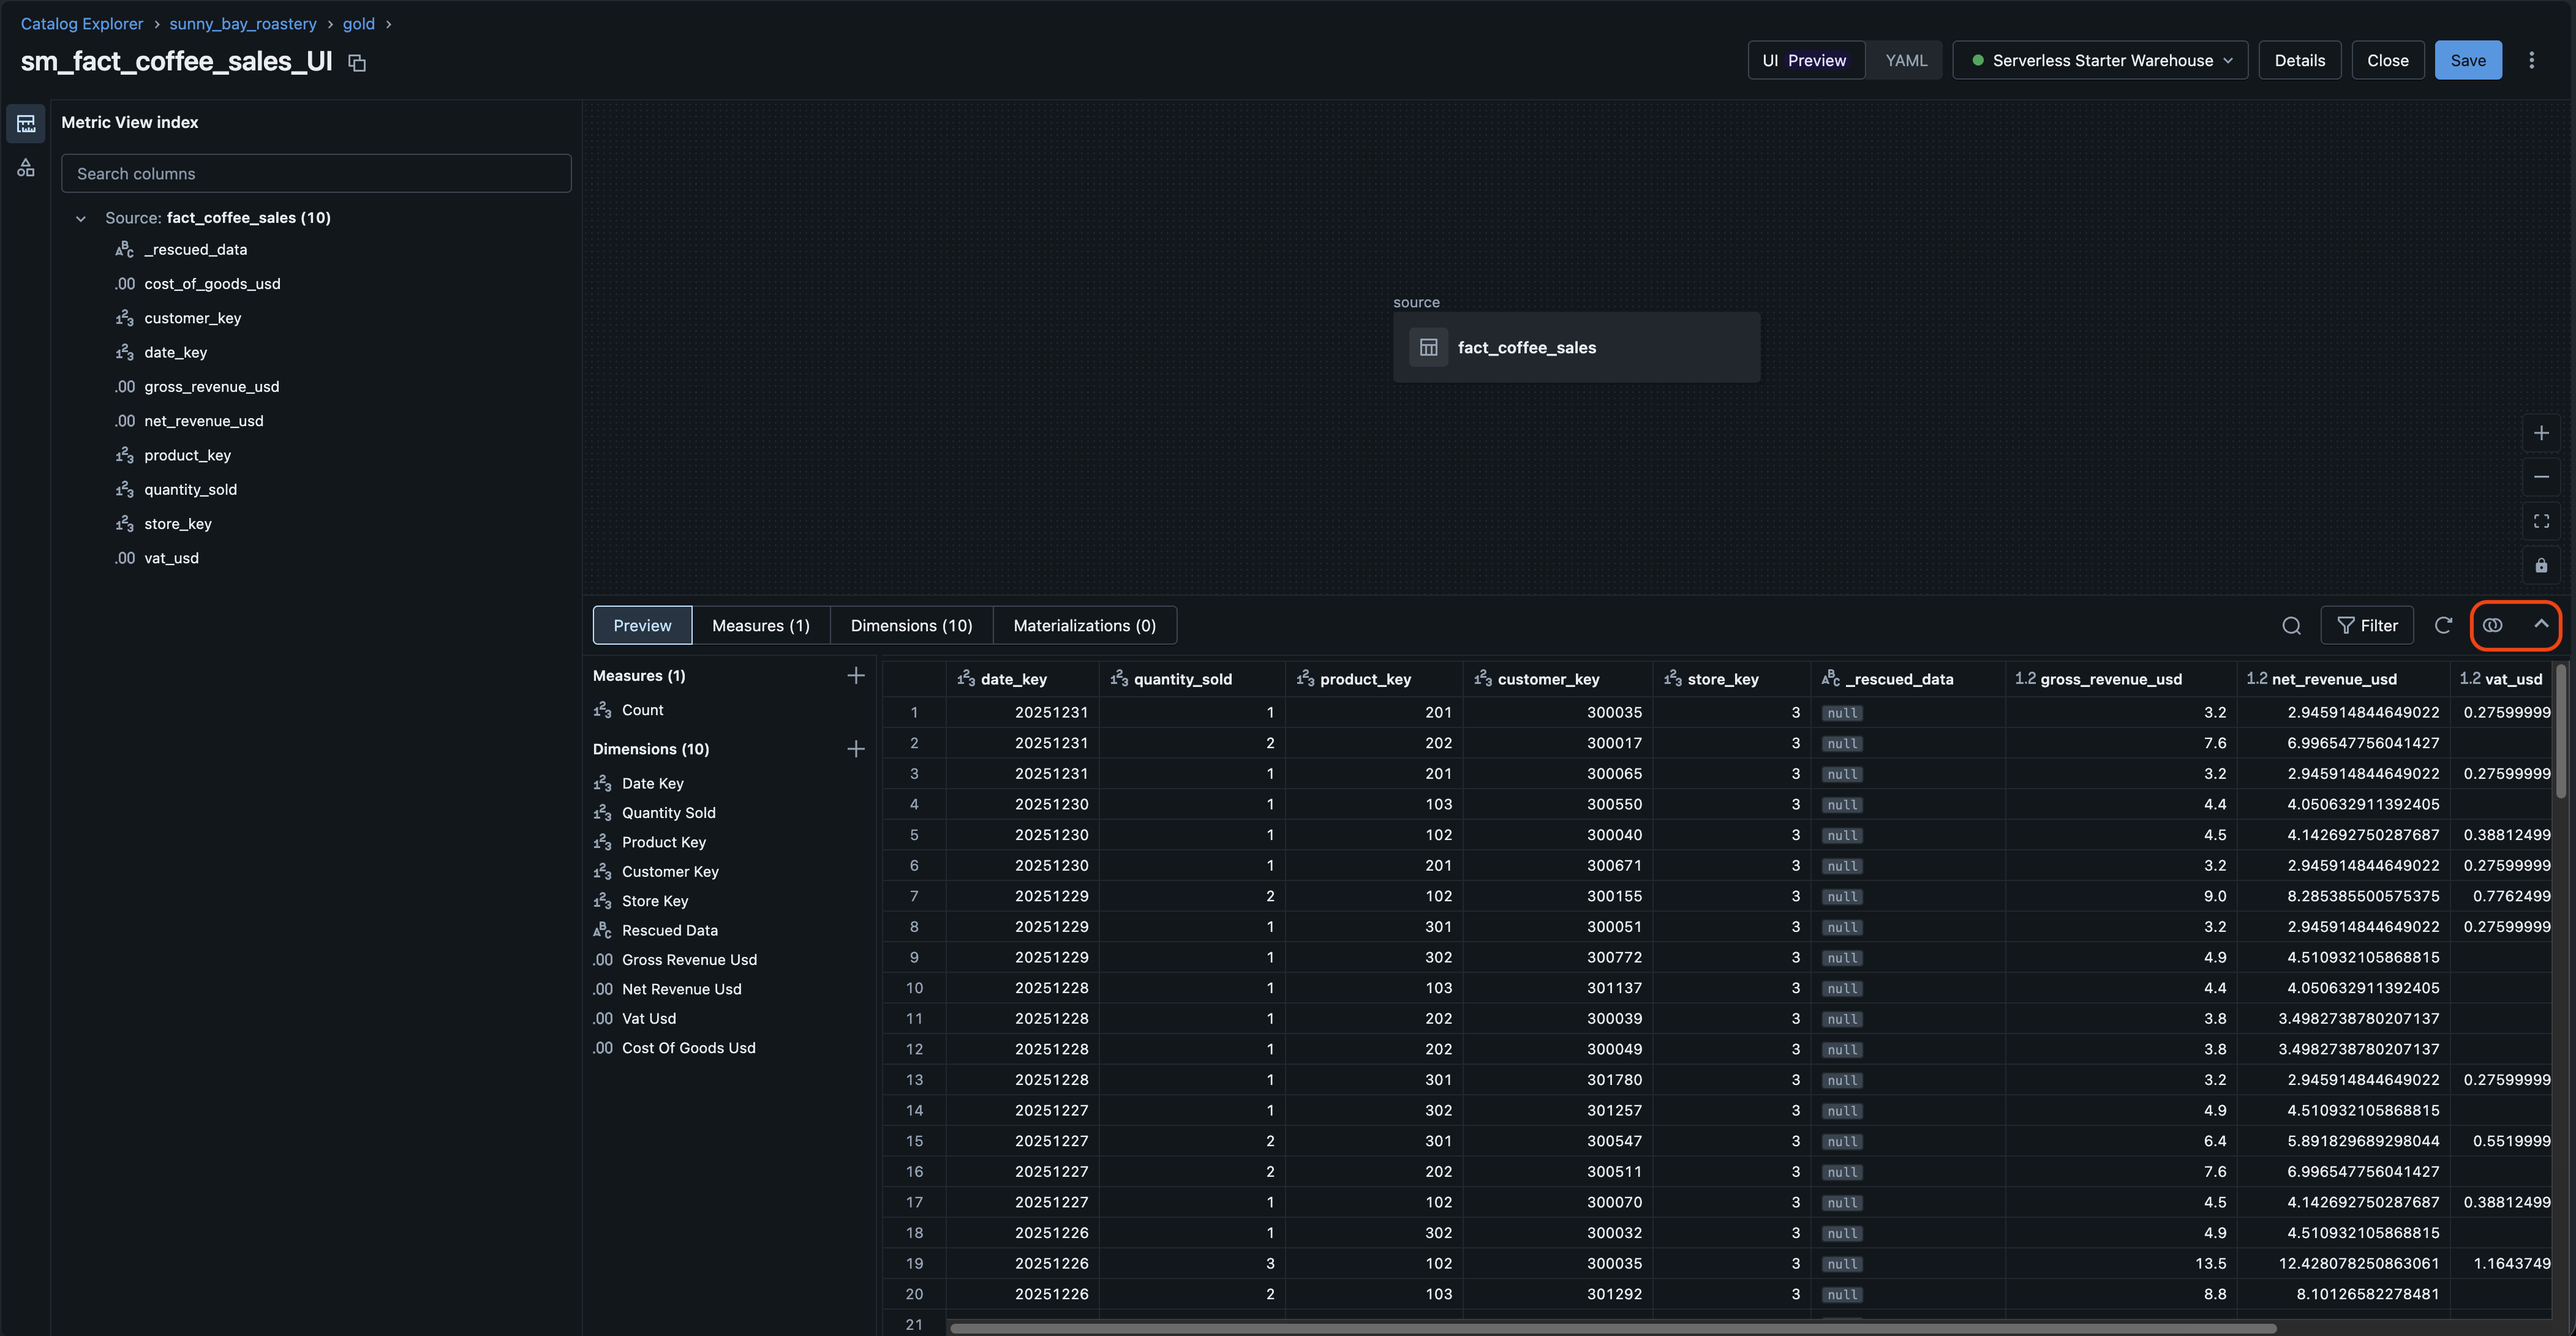
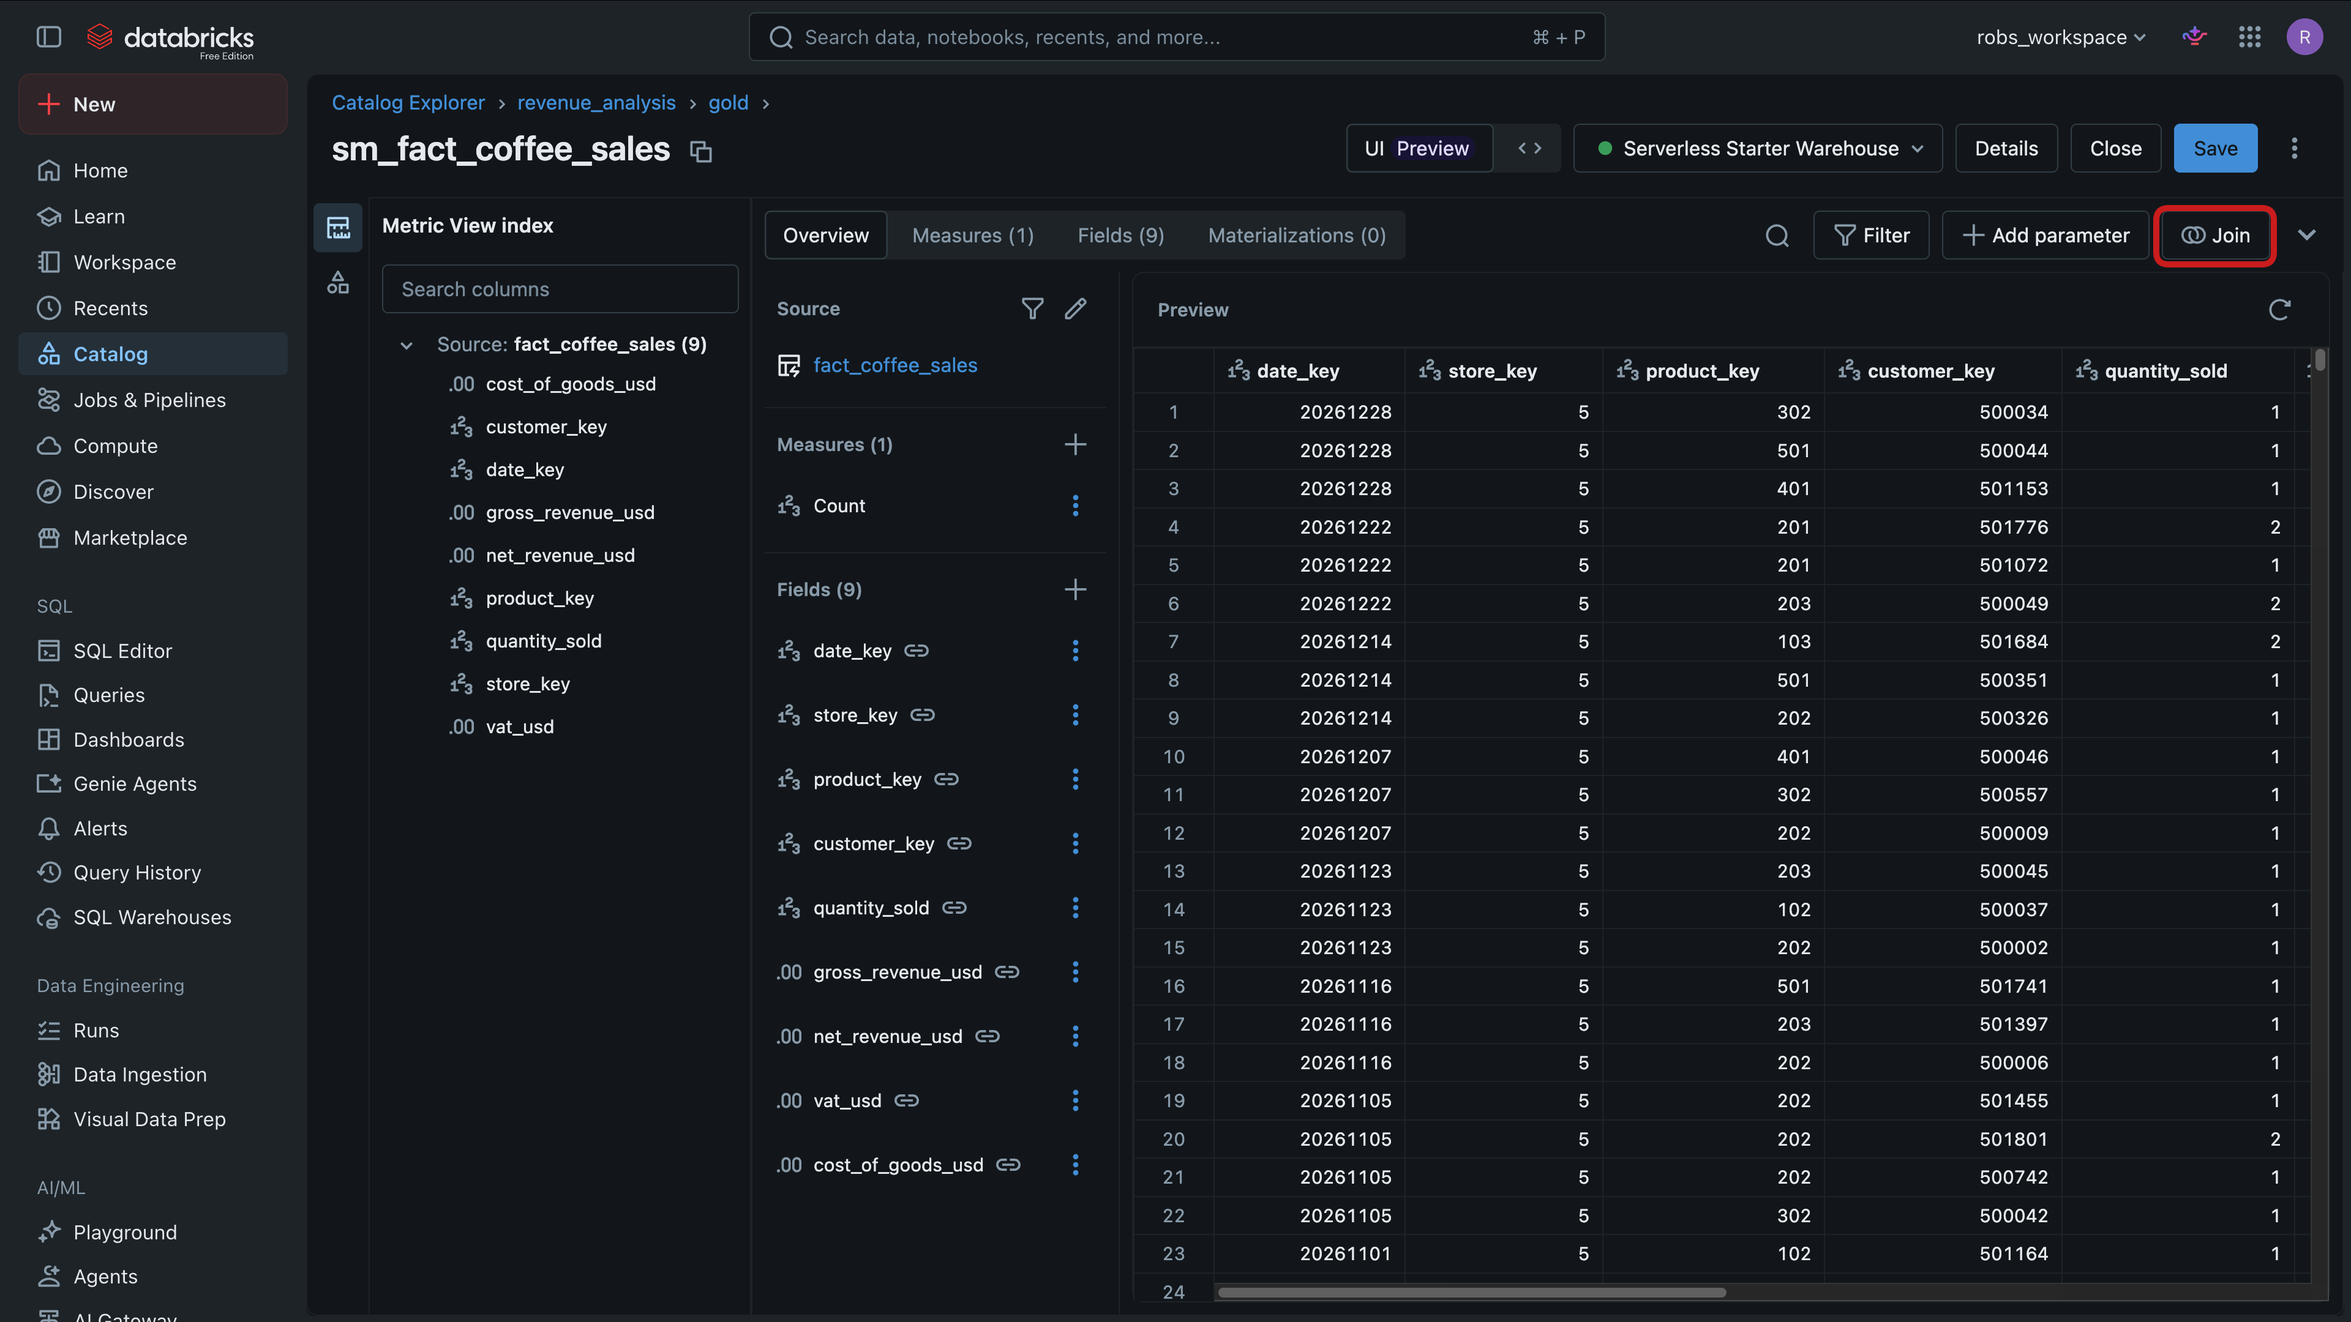
Lab 2: streamline the join steps and rename dimensions to fields
- Step 2.1: simplify to clicking the Join button (top-right); update screenshot
- Step 2.2: update screenshot; add notes on removing an auto-added second join
  key and on the "At most one match" query-performance option and what it does
- Remove the "see join results / back button" step and its screenshot
- Remove the display-name (DimensionConf) screenshot
- Rename the UI "Dimensions" references to "Fields" to match the metric view UI

diff --git a/labs/Lab 2 - Data Modelling.md b/labs/Lab 2 - Data Modelling.md
@@ -5,7 +5,7 @@ By the end of this lab, you will:
 - Understand how [Databricks Metric Views](https://docs.databricks.com/aws/en/metric-views/) will allow you to add business semantics using relationships and calculations to your data
 - Create a metric view with
     - relationships to our tables to allow implicit joining of tables.
-    - dimensions and measures with attributes and common calculations
+    - fields and measures with attributes and common calculations
     - formatting instructions and synonyms
 - Publish the metric view to make it available in Unity Catalog to make it accessible by subsequent features and tools such as Databricks Dashboards.
 
@@ -59,23 +59,25 @@ They allow consistent reporting, simplify complex SQL logic, and centralize metr
 > [!NOTE]
 > Joins link your fact table to dimension tables, allowing users to slice and filter metrics by attributes like product name, store location, or date — e.g., "show revenue by product category."
 
-1. We will now create our first join. In the overview page, expand the Metric View Canvas by clicking the Arrow button and then click the Join button (2 circles)
+1. We will now create our first join. On the **Overview** page, click the **Join** button (top-right).
 
 ![alt text](./artifacts/screenshots/MetricView_UI_OpenJoinDialog.png)
 
-2. Add the `dim_product` table and define the Join Condition using the columns with the `_key` suffix (e.g., `product_key`).
+2. Add the `dim_product` table and define the **Join Condition** using the columns with the `_key` suffix (e.g., `product_key = product_key`).
+
+> [!TIP]
+> If a **second join key** row appears automatically, remove it with the **✕** next to it — you only need to match on the `_key` columns.
 
 ![alt text](./artifacts/screenshots/MetricView_UI_DefineJoin.png)
 
-3. In the following dialog, only select the `Product Name`, `Product Subcategory` and `Product Category`attributes. 
+> [!NOTE]
+> Under **Query performance** you can enable **At most one match**. It tells Databricks that each fact row matches at most one row in the dimension — a true to-one relationship, as here, where `product_key` is unique in `dim_product`. This lets the optimizer skip duplicate-checking and rewrite queries more efficiently. Only enable it when the dimension key really is unique; if a fact row could match several dimension rows, the results would be wrong.
 
-4. See the results of your join-configuration. To get back to the overview page, click the back button. 
+3. In the following dialog, only select the `Product Name`, `Product Subcategory` and `Product Category` attributes.
 
-![alt text](./artifacts/screenshots/MetricView_UI_JoinResultAndBack.png)
+4. Now add the remaining dimension tables using the same approach. Use the following table as a reference:
 
-5. Now add the remaining dimension tables using the same approach. Use the following table as a reference:
-
-| Dimension Table | Join Condition | Dimensions to Select |
+| Dimension Table | Join Condition | Fields to Select |
 |---|---|---|
 | `dim_date` | `source.date_key = date.date_key` | Date, Day of Week |
 | `dim_store` | `source.store_key = store.store_key` | Store Name, Is Online, Latitude, Longitude |
@@ -85,16 +87,14 @@ They allow consistent reporting, simplify complex SQL logic, and centralize metr
 
 ![alt text](./artifacts/screenshots/MetricView_UI_AddJoin.png)
 
-6. For each dimension you can enter a `Display Name`. This is the bridge between technical column names used by developers (e.g., `product_category`) and human-readable labels for business users (e.g., `Product Category`).
+5. For each field you can enter a `Display Name`. This is the bridge between technical column names used by developers (e.g., `product_category`) and human-readable labels for business users (e.g., `Product Category`).
 
-![alt text](./artifacts/screenshots/MetricView_UI_DimensionConf.png)
-
-7. Delete the irrelevant dimension columns such as: `Date Key`, `Txn Seq`, `Product Key`, `Customer Key`, and `Store Key`.
+6. Delete the irrelevant fields such as: `Date Key`, `Txn Seq`, `Product Key`, `Customer Key`, and `Store Key`.
 
 > [!NOTE]
 > It is best practice to hide non-relevant and technical columns from business users who consume metric views. This keeps the model clean and easy to navigate.
 
-8. Now create a derived dimension that groups each order into a value band. Open `Dimensions`, click `+ Add`, set the name to `basket_size` (Display Name `Basket Size`), and copy this snippet into the `Expression` field:
+7. Now create a derived field that groups each order into a value band. Open `Fields`, click `+ Add`, set the name to `basket_size` (Display Name `Basket Size`), and copy this snippet into the `Expression` field:
 
 ```sql
 CASE
@@ -105,7 +105,7 @@ CASE
 END
 ```
 
-9. Congratulations for creating the basic semantic model of Sunny Bay Roastery. In the next step we are going to integrate measures.
+8. Congratulations for creating the basic semantic model of Sunny Bay Roastery. In the next step we are going to integrate measures.
 
 ![alt text](./artifacts/screenshots/MetricView_UI_DataModel.png)
 
